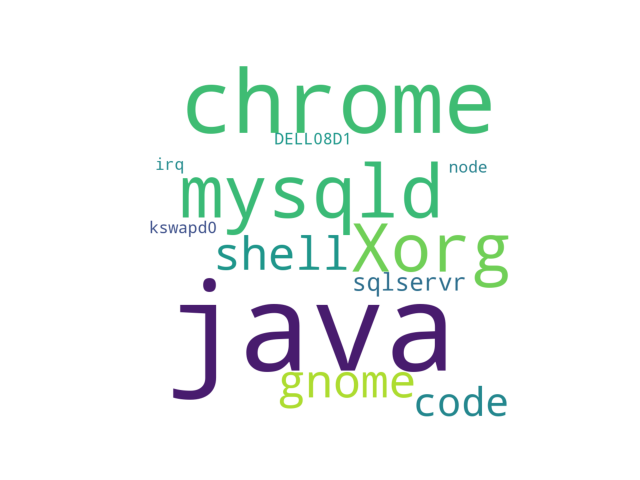
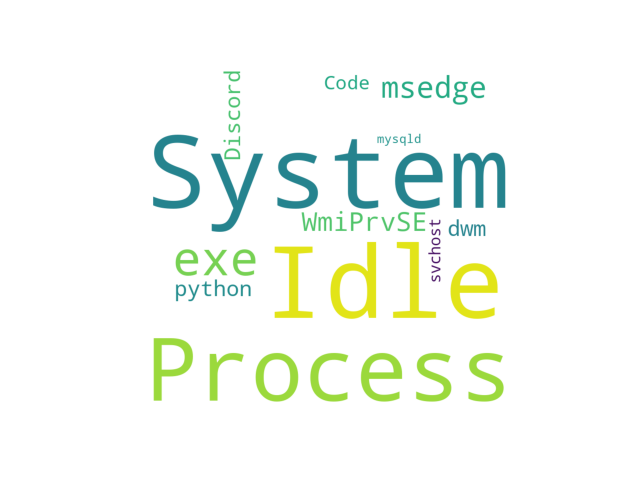
botão wordcloud

Changed region(s): [[0.2188, 0.125, 0.8125, 0.875]]

diff --git a/site_institucional/public/restrito/processos.html b/site_institucional/public/restrito/processos.html
@@ -37,13 +37,13 @@
                 <!-- Simple Tables -->
                 <div class="card">
                   <div class="card-header py-3 d-flex flex-row align-items-center justify-content-between">
-                    <select class="dropdown-toggle btn btn-sm btn-select" id="selecionar-maquina">
+                    <!-- <select class="dropdown-toggle btn btn-sm btn-select" id="selecionar-maquina">
                       <option value="null">Selecionar Maquina</option>
-                    </select>
-                    <select class="dropdown-toggle btn btn-sm btn-select" id="selecionar-hardware">
+                    </select> -->
+                    <!-- <select class="dropdown-toggle btn btn-sm btn-select" id="selecionar-hardware">
                       <option value="null">Selecionar Hardware</option>
-                    </select>
-                    <input onclick="filtrar()" id="filtrar" class="dropdown-toggle btn btn-primary btn-sm" type="button" value="Filtrar">
+                    </select> -->
+                    <input onclick="wordcloud()" id="wordcloud" class="dropdown-toggle btn btn-primary btn-sm" type="button" value="WordCloud">
                   </div>
                   <div class="table-responsive">
                     <table class="table align-items-center table-flush">
@@ -190,6 +190,10 @@
             });
 
 
+    }
+
+    function wordcloud(){
+      
     }
 
   </script>

diff --git a/guilherme2.py b/guilherme2.py
@@ -5,13 +5,13 @@ from wordcloud import WordCloud
 import mysql.connector
 from datetime import date
 
-bdsql = mysql.connector.connect(host="localhost", user="aluno", password="sptech", database="airData", autocommit=True)
+bdsql = mysql.connector.connect(host="localhost", user="root", password="sptech", database="airData", autocommit=True)
 
 mycursor = bdsql.cursor()
 
 while True:
 
-    querry = "SELECT nome, max(porcentagemCpu) FROM processos WHERE DAY(horario) >= DAY(now()) GROUP BY nome ORDER BY max(porcentagemCpu) DESC LIMIT 10;"
+    querry = "SELECT nome, max(porcentagemCpu) as 'cpu', pid, usuario FROM processos WHERE DAY(horario) >= DAY(now()) AND MINUTE(horario) >= MINUTE(now()) GROUP BY nome, pid, usuario ORDER BY max(porcentagemCpu) DESC LIMIT 10;"
 
     mycursor.execute(querry)
 

diff --git a/API python/PROCESSOS/processos.py b/API python/PROCESSOS/processos.py
@@ -6,7 +6,7 @@ from sys import platform
 import mysql.connector
 import matplotlib.pyplot as plt
 
-bdsql = mysql.connector.connect(host="localhost", user="aluno", password="sptech", database="airData", autocommit=True)
+bdsql = mysql.connector.connect(host="localhost", user="root", password="sptech", database="airData", autocommit=True)
 
 mycursor = bdsql.cursor()
 
